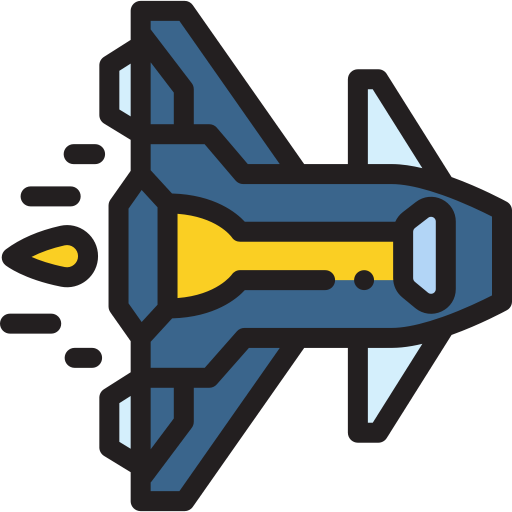
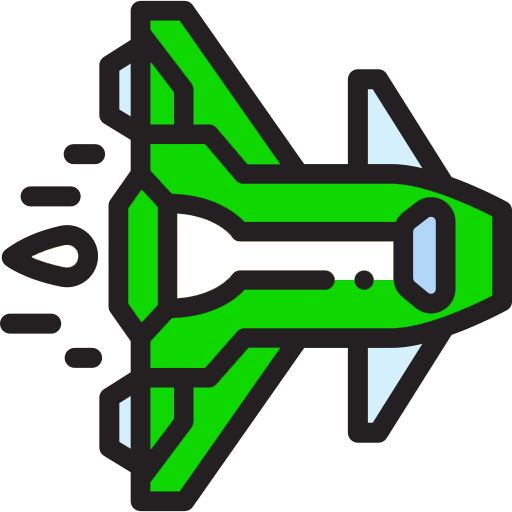
ajout de skins pour le spaceship

diff --git a/src/Class/Player/Player.cpp b/src/Class/Player/Player.cpp
@@ -11,7 +11,7 @@
 Player::Player(const sf::Texture& texture, const sf::Vector2u& screenSize)
     : _sprite{sf::Sprite(texture)}, _screenSize{screenSize}
 {
-    _sprite.setScale({.2f, .2f});
+    _sprite.setScale({.15f, .15f});
     _bounds = _sprite.getLocalBounds();
 
     _sprite.setOrigin({_bounds.size.x / 2.f, _bounds.size.y / 2.f});

diff --git a/src/Class/GameWindow/GameWindow.cpp b/src/Class/GameWindow/GameWindow.cpp
@@ -8,7 +8,7 @@
 
 GameWindow::GameWindow() {
 
-    if (!_texture.loadFromFile("ressources/images/spaceship.png")) {
+    if (!_texture.loadFromFile("ressources/images/spaceship_3.png")) {
         abort();
     }
     _texture.setSmooth(true);

diff --git a/src/main.cpp b/src/main.cpp
@@ -4,6 +4,6 @@
 int main()
 {
     GameWindow window;
-    window.show(800, 600,"THE SHOOTER");
+    window.show(800, 600,"The Shooter - ULTIMATE Spaceship shooter simulation");
 }
 
